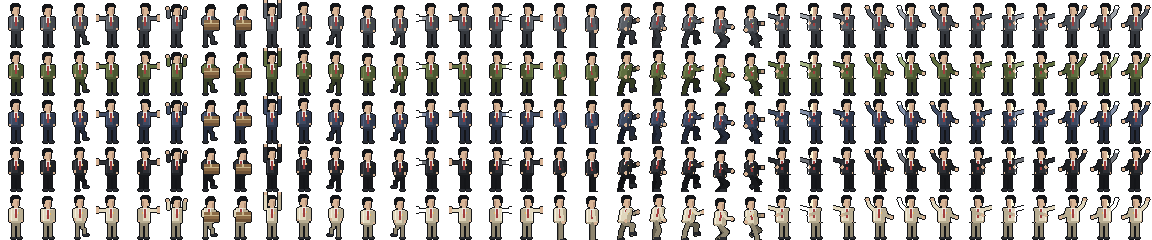
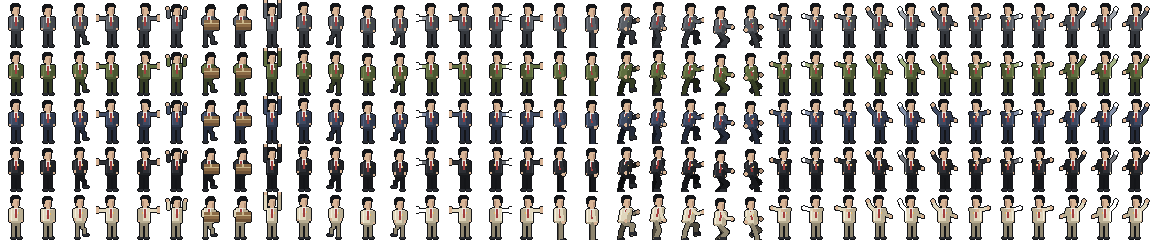
게임: 움직이는 로비 — 타자 치는 사원, 전화하는 사원, 커피 마시는 사원, 바닥을 오가는 사원 (staff.png) / 애니메이션 QA로 고친 프레임
- 막기 성공 번쩍임이 얼굴에 번지던 것, 두 손 밀기 팔이 프레임 끝에 잘리던 것 고침
- 먼 쪽 팔다리를 확실히 어둡게 해 달리기·걷기에서 다리를 바꿔 딛는 것이 보이게, 경쟁 사원 손이 프레임 끝에 잘리지 않게
- 내려 딛기 팔을 내리고, 전화하는 사원 손에 전화기
- QA: 자동 검사(빈 프레임·조각남·발 기준선·흔들림·몸을 가르는 외곽선) 0건, Designer QA 에이전트 육안 검토 통과

diff --git a/demo_api/assets/sprite_definition.js b/demo_api/assets/sprite_definition.js
@@ -1,1 +1,1 @@
-window.SPRITE_DEF = {"version": 1, "accepted_formats": {"image": ["png", "jpg", "jpeg"], "audio": ["mp3", "ogg"]}, "image_note": "이미지는 JPEG 또는 PNG 스프라이트 맵. 행(row)=변형, 열(column)=프레임. 프레임 (열, 행)의 픽셀 위치는 (열*frame_w, 행*frame_h)", "assets_dir": "assets", "logical_resolution": [320, 180], "pixel_scale": 2, "pixel_note": "에셋은 논리 해상도(320x180)의 2배(640x360 기준)로 그린다. 게임은 1/pixel_scale 크기로 그린다.", "sprites": {"player": {"file": "player.png", "frame_w": 32, "frame_h": 48, "variants": {"사원": 0, "대리": 1, "과장": 2, "간부": 3, "CEO": 4}, "animations": {"idle": {"frames": [17, 18], "fps": 2}, "step": {"frames": [2], "fps": 8}, "parry_left": {"frames": [3], "fps": 1}, "parry_right": {"frames": [4], "fps": 1}, "hit": {"frames": [5], "fps": 1}, "box_exit": {"frames": [6, 7], "fps": 3}, "proud": {"frames": [8], "fps": 1}, "climb_r": {"frames": [19, 20], "fps": 14}, "climb_l": {"frames": [21, 20], "fps": 14}, "down": {"frames": [22, 23], "fps": 8}, "parry_hit_left": {"frames": [13, 14, 3], "fps": 18}, "parry_hit_right": {"frames": [15, 16, 4], "fps": 18}, "parry_left2": {"frames": [24], "fps": 1}, "parry_hit_left2": {"frames": [25, 26, 24], "fps": 18}, "parry_left3": {"frames": [27], "fps": 1}, "parry_hit_left3": {"frames": [28, 29, 27], "fps": 18}, "parry_right2": {"frames": [30], "fps": 1}, "parry_hit_right2": {"frames": [31, 32, 30], "fps": 18}, "parry_right3": {"frames": [33], "fps": 1}, "parry_hit_right3": {"frames": [34, 35, 33], "fps": 18}}}, "rival": {"file": "rival.png", "frame_w": 32, "frame_h": 48, "variants": {"default": 0}, "animations": {"walk": {"frames": [16, 17, 18, 19], "fps": 10}, "attack": {"frames": [4, 5], "fps": 6}, "leave": {"frames": [6, 7, 8, 9], "fps": 8}, "climb": {"frames": [20, 21, 22, 23], "fps": 10}, "down": {"frames": [24, 25], "fps": 8}, "idle": {"frames": [26, 27], "fps": 2}}}, "projectiles": {"file": "projectiles.png", "frame_w": 24, "frame_h": 24, "variants": {"default": 0}, "animations": {"document": {"frames": [0, 1], "fps": 6}, "clipboard": {"frames": [2, 3], "fps": 6}, "phone": {"frames": [4, 5], "fps": 6}, "monitor": {"frames": [6, 7], "fps": 5}, "coffee": {"frames": [8, 9], "fps": 4}, "suitcase": {"frames": [10, 11], "fps": 4}, "suitcase_open": {"frames": [12], "fps": 1}}}, "warning": {"file": "warning.png", "frame_w": 16, "frame_h": 24, "variants": {"default": 0}, "animations": {"blink": {"frames": [0, 1], "fps": 6}}}, "stairs": {"file": "stairs.png", "frame_w": 88, "frame_h": 24, "variants": {"zone1": 0, "zone2": 1, "zone3": 2, "zone4": 3, "zone5": 4}, "animations": {"tile": {"frames": [0], "fps": 1}, "riser": {"frames": [1], "fps": 1}, "cracked": {"frames": [2], "fps": 1}, "wet": {"frames": [3], "fps": 1}}}, "hud_icons": {"file": "hud_icons.png", "frame_w": 24, "frame_h": 24, "variants": {"default": 0}, "animations": {"heart": {"frames": [0], "fps": 1}, "heart_empty": {"frames": [1], "fps": 1}, "calendar": {"frames": [2], "fps": 1}, "arrow_left": {"frames": [3], "fps": 1}, "arrow_right": {"frames": [4], "fps": 1}, "shield_q": {"frames": [5], "fps": 1}, "shield_e": {"frames": [6], "fps": 1}, "badge": {"frames": [7], "fps": 1}, "gear": {"frames": [8], "fps": 1}}}, "props": {"file": "props.png", "frame_w": 32, "frame_h": 48, "variants": {"default": 0}, "animations": {"cooler": {"frames": [0], "fps": 1}, "boxes": {"frames": [1], "fps": 1}, "plant": {"frames": [2], "fps": 1}, "cabinet": {"frames": [3], "fps": 1}}}, "commuter": {"file": "commuter.png", "frame_w": 20, "frame_h": 40, "variants": {"default": 0}, "animations": {"walk": {"frames": [0, 1, 2, 3], "fps": 6}}}, "sticky": {"file": "sticky.png", "frame_w": 24, "frame_h": 24, "variants": {"pink": 0, "blue": 1, "green": 2, "yellow": 3, "white": 4}, "animations": {"fly": {"frames": [0, 1], "fps": 6}}}}, "images": {"bg_zone1": {"file": "bg_zone1.png", "w": 640, "h": 360}, "bg_zone2": {"file": "bg_zone2.png", "w": 640, "h": 360}, "bg_zone3": {"file": "bg_zone3.png", "w": 640, "h": 360}, "bg_zone4": {"file": "bg_zone4.png", "w": 640, "h": 360}, "bg_zone5": {"file": "bg_zone5.png", "w": 640, "h": 360}, "title_bg": {"file": "title_bg.png", "w": 640, "h": 360}, "logo": {"file": "logo.png", "w": 299, "h": 79}, "bg_lobby": {"file": "bg_lobby.png", "w": 640, "h": 360}, "bg_result": {"file": "bg_result.png", "w": 640, "h": 360}, "bg_practice": {"file": "bg_practice.png", "w": 640, "h": 360}}, "sounds": {"bgm_loop": {"loop": true, "files": {"mp3": "bgm_loop.mp3", "ogg": "bgm_loop.ogg"}}, "bgm_loop_tense": {"loop": true, "files": {"mp3": "bgm_loop_tense.mp3", "ogg": "bgm_loop_tense.ogg"}}, "amb_office": {"loop": true, "files": {"mp3": "amb_office.mp3", "ogg": "amb_office.ogg"}}, "sfx_step": {"loop": false, "files": {"mp3": "sfx_step.mp3", "ogg": "sfx_step.ogg"}}, "sfx_parry": {"loop": false, "files": {"mp3": "sfx_parry.mp3", "ogg": "sfx_parry.ogg"}}, "sfx_hit": {"loop": false, "files": {"mp3": "sfx_hit.mp3", "ogg": "sfx_hit.ogg"}}, "sfx_warning": {"loop": false, "files": {"mp3": "sfx_warning.mp3", "ogg": "sfx_warning.ogg"}}, "sfx_promote": {"loop": false, "files": {"mp3": "sfx_promote.mp3", "ogg": "sfx_promote.ogg"}}, "sfx_gameover": {"loop": false, "files": {"mp3": "sfx_gameover.mp3", "ogg": "sfx_gameover.ogg"}}, "sfx_click": {"loop": false, "files": {"mp3": "sfx_click.mp3", "ogg": "sfx_click.ogg"}}, "sfx_phone_ring": {"loop": false, "files": {"mp3": "sfx_phone_ring.mp3", "ogg": "sfx_phone_ring.ogg"}}, "sfx_cue_clipboard": {"loop": false, "files": {"mp3": "sfx_cue_clipboard.mp3", "ogg": "sfx_cue_clipboard.ogg"}}, "sfx_cue_rival": {"loop": false, "files": {"mp3": "sfx_cue_rival.mp3", "ogg": "sfx_cue_rival.ogg"}}, "sfx_cue_paper": {"loop": false, "files": {"mp3": "sfx_cue_paper.mp3", "ogg": "sfx_cue_paper.ogg"}}, "sfx_monitor_shatter": {"loop": false, "files": {"mp3": "sfx_monitor_shatter.mp3", "ogg": "sfx_monitor_shatter.ogg"}}, "sfx_light_flicker": {"loop": false, "files": {"mp3": "sfx_light_flicker.mp3", "ogg": "sfx_light_flicker.ogg"}}, "sfx_cue_coffee": {"loop": false, "files": {"mp3": "sfx_cue_coffee.mp3", "ogg": "sfx_cue_coffee.ogg"}}, "sfx_stair_crack": {"loop": false, "files": {"mp3": "sfx_stair_crack.mp3", "ogg": "sfx_stair_crack.ogg"}}, "sfx_camera_flash": {"loop": false, "files": {"mp3": "sfx_camera_flash.mp3", "ogg": "sfx_camera_flash.ogg"}}, "sfx_cue_suitcase": {"loop": false, "files": {"mp3": "sfx_cue_suitcase.mp3", "ogg": "sfx_cue_suitcase.ogg"}}, "bgm_stage1": {"loop": true, "files": {"mp3": "bgm_stage1.mp3", "ogg": "bgm_stage1.ogg"}}, "bgm_stage2": {"loop": true, "files": {"mp3": "bgm_stage2.mp3", "ogg": "bgm_stage2.ogg"}}, "bgm_stage3": {"loop": true, "files": {"mp3": "bgm_stage3.mp3", "ogg": "bgm_stage3.ogg"}}, "bgm_stage4": {"loop": true, "files": {"mp3": "bgm_stage4.mp3", "ogg": "bgm_stage4.ogg"}}, "bgm_stage5": {"loop": true, "files": {"mp3": "bgm_stage5.mp3", "ogg": "bgm_stage5.ogg"}}, "sfx_electric": {"loop": false, "files": {"mp3": "sfx_electric.mp3", "ogg": "sfx_electric.ogg"}}, "sfx_cue_stapler": {"files": {"mp3": "sfx_cue_stapler.mp3", "ogg": "sfx_cue_stapler.ogg"}}, "sfx_cue_sticky": {"files": {"mp3": "sfx_cue_sticky.mp3", "ogg": "sfx_cue_sticky.ogg"}}, "sfx_cue_airplane": {"files": {"mp3": "sfx_cue_airplane.mp3", "ogg": "sfx_cue_airplane.ogg"}}, "sfx_gaze_warn": {"files": {"mp3": "sfx_gaze_warn.mp3", "ogg": "sfx_gaze_warn.ogg"}}, "sfx_gaze_laser": {"files": {"mp3": "sfx_gaze_laser.mp3", "ogg": "sfx_gaze_laser.ogg"}}, "sfx_vanish": {"files": {"mp3": "sfx_vanish.mp3", "ogg": "sfx_vanish.ogg"}}, "sfx_escalator": {"files": {"mp3": "sfx_escalator.mp3", "ogg": "sfx_escalator.ogg"}}, "sfx_parry_perfect": {"files": {"mp3": "sfx_parry_perfect.mp3", "ogg": "sfx_parry_perfect.ogg"}}, "sfx_cue_chair": {"files": {"mp3": "sfx_cue_chair.mp3", "ogg": "sfx_cue_chair.ogg"}}, "sfx_chair_hop": {"files": {"mp3": "sfx_chair_hop.mp3", "ogg": "sfx_chair_hop.ogg"}}, "sfx_cue_envelope": {"files": {"mp3": "sfx_cue_envelope.mp3", "ogg": "sfx_cue_envelope.ogg"}}}};
+window.SPRITE_DEF = {"version": 1, "accepted_formats": {"image": ["png", "jpg", "jpeg"], "audio": ["mp3", "ogg"]}, "image_note": "이미지는 JPEG 또는 PNG 스프라이트 맵. 행(row)=변형, 열(column)=프레임. 프레임 (열, 행)의 픽셀 위치는 (열*frame_w, 행*frame_h)", "assets_dir": "assets", "logical_resolution": [320, 180], "pixel_scale": 2, "pixel_note": "에셋은 논리 해상도(320x180)의 2배(640x360 기준)로 그린다. 게임은 1/pixel_scale 크기로 그린다.", "sprites": {"player": {"file": "player.png", "frame_w": 32, "frame_h": 48, "variants": {"사원": 0, "대리": 1, "과장": 2, "간부": 3, "CEO": 4}, "animations": {"idle": {"frames": [17, 18], "fps": 2}, "step": {"frames": [2], "fps": 8}, "parry_left": {"frames": [3], "fps": 1}, "parry_right": {"frames": [4], "fps": 1}, "hit": {"frames": [5], "fps": 1}, "box_exit": {"frames": [6, 7], "fps": 3}, "proud": {"frames": [8], "fps": 1}, "climb_r": {"frames": [19, 20], "fps": 14}, "climb_l": {"frames": [21, 20], "fps": 14}, "down": {"frames": [22, 23], "fps": 8}, "parry_hit_left": {"frames": [13, 14, 3], "fps": 18}, "parry_hit_right": {"frames": [15, 16, 4], "fps": 18}, "parry_left2": {"frames": [24], "fps": 1}, "parry_hit_left2": {"frames": [25, 26, 24], "fps": 18}, "parry_left3": {"frames": [27], "fps": 1}, "parry_hit_left3": {"frames": [28, 29, 27], "fps": 18}, "parry_right2": {"frames": [30], "fps": 1}, "parry_hit_right2": {"frames": [31, 32, 30], "fps": 18}, "parry_right3": {"frames": [33], "fps": 1}, "parry_hit_right3": {"frames": [34, 35, 33], "fps": 18}}}, "rival": {"file": "rival.png", "frame_w": 32, "frame_h": 48, "variants": {"default": 0}, "animations": {"walk": {"frames": [16, 17, 18, 19], "fps": 10}, "attack": {"frames": [4, 5], "fps": 6}, "leave": {"frames": [6, 7, 8, 9], "fps": 8}, "climb": {"frames": [20, 21, 22, 23], "fps": 10}, "down": {"frames": [24, 25], "fps": 8}, "idle": {"frames": [26, 27], "fps": 2}}}, "projectiles": {"file": "projectiles.png", "frame_w": 24, "frame_h": 24, "variants": {"default": 0}, "animations": {"document": {"frames": [0, 1], "fps": 6}, "clipboard": {"frames": [2, 3], "fps": 6}, "phone": {"frames": [4, 5], "fps": 6}, "monitor": {"frames": [6, 7], "fps": 5}, "coffee": {"frames": [8, 9], "fps": 4}, "suitcase": {"frames": [10, 11], "fps": 4}, "suitcase_open": {"frames": [12], "fps": 1}}}, "warning": {"file": "warning.png", "frame_w": 16, "frame_h": 24, "variants": {"default": 0}, "animations": {"blink": {"frames": [0, 1], "fps": 6}}}, "stairs": {"file": "stairs.png", "frame_w": 88, "frame_h": 24, "variants": {"zone1": 0, "zone2": 1, "zone3": 2, "zone4": 3, "zone5": 4}, "animations": {"tile": {"frames": [0], "fps": 1}, "riser": {"frames": [1], "fps": 1}, "cracked": {"frames": [2], "fps": 1}, "wet": {"frames": [3], "fps": 1}}}, "hud_icons": {"file": "hud_icons.png", "frame_w": 24, "frame_h": 24, "variants": {"default": 0}, "animations": {"heart": {"frames": [0], "fps": 1}, "heart_empty": {"frames": [1], "fps": 1}, "calendar": {"frames": [2], "fps": 1}, "arrow_left": {"frames": [3], "fps": 1}, "arrow_right": {"frames": [4], "fps": 1}, "shield_q": {"frames": [5], "fps": 1}, "shield_e": {"frames": [6], "fps": 1}, "badge": {"frames": [7], "fps": 1}, "gear": {"frames": [8], "fps": 1}}}, "props": {"file": "props.png", "frame_w": 32, "frame_h": 48, "variants": {"default": 0}, "animations": {"cooler": {"frames": [0], "fps": 1}, "boxes": {"frames": [1], "fps": 1}, "plant": {"frames": [2], "fps": 1}, "cabinet": {"frames": [3], "fps": 1}}}, "commuter": {"file": "commuter.png", "frame_w": 20, "frame_h": 40, "variants": {"default": 0}, "animations": {"walk": {"frames": [0, 1, 2, 3], "fps": 6}}}, "sticky": {"file": "sticky.png", "frame_w": 24, "frame_h": 24, "variants": {"pink": 0, "blue": 1, "green": 2, "yellow": 3, "white": 4}, "animations": {"fly": {"frames": [0, 1], "fps": 6}}}, "staff": {"file": "staff.png", "frame_w": 32, "frame_h": 48, "variants": {"a": 0, "b": 1, "c": 2, "d": 3}, "animations": {"walk": {"frames": [0, 1, 2, 3], "fps": 6}, "idle": {"frames": [4, 5], "fps": 2}, "coffee": {"frames": [6, 7], "fps": 1}, "type": {"frames": [8, 9], "fps": 6}, "phone": {"frames": [10, 11], "fps": 2}}}}, "images": {"bg_zone1": {"file": "bg_zone1.png", "w": 640, "h": 360}, "bg_zone2": {"file": "bg_zone2.png", "w": 640, "h": 360}, "bg_zone3": {"file": "bg_zone3.png", "w": 640, "h": 360}, "bg_zone4": {"file": "bg_zone4.png", "w": 640, "h": 360}, "bg_zone5": {"file": "bg_zone5.png", "w": 640, "h": 360}, "title_bg": {"file": "title_bg.png", "w": 640, "h": 360}, "logo": {"file": "logo.png", "w": 299, "h": 79}, "bg_lobby": {"file": "bg_lobby.png", "w": 640, "h": 360}, "bg_result": {"file": "bg_result.png", "w": 640, "h": 360}, "bg_practice": {"file": "bg_practice.png", "w": 640, "h": 360}}, "sounds": {"bgm_loop": {"loop": true, "files": {"mp3": "bgm_loop.mp3", "ogg": "bgm_loop.ogg"}}, "bgm_loop_tense": {"loop": true, "files": {"mp3": "bgm_loop_tense.mp3", "ogg": "bgm_loop_tense.ogg"}}, "amb_office": {"loop": true, "files": {"mp3": "amb_office.mp3", "ogg": "amb_office.ogg"}}, "sfx_step": {"loop": false, "files": {"mp3": "sfx_step.mp3", "ogg": "sfx_step.ogg"}}, "sfx_parry": {"loop": false, "files": {"mp3": "sfx_parry.mp3", "ogg": "sfx_parry.ogg"}}, "sfx_hit": {"loop": false, "files": {"mp3": "sfx_hit.mp3", "ogg": "sfx_hit.ogg"}}, "sfx_warning": {"loop": false, "files": {"mp3": "sfx_warning.mp3", "ogg": "sfx_warning.ogg"}}, "sfx_promote": {"loop": false, "files": {"mp3": "sfx_promote.mp3", "ogg": "sfx_promote.ogg"}}, "sfx_gameover": {"loop": false, "files": {"mp3": "sfx_gameover.mp3", "ogg": "sfx_gameover.ogg"}}, "sfx_click": {"loop": false, "files": {"mp3": "sfx_click.mp3", "ogg": "sfx_click.ogg"}}, "sfx_phone_ring": {"loop": false, "files": {"mp3": "sfx_phone_ring.mp3", "ogg": "sfx_phone_ring.ogg"}}, "sfx_cue_clipboard": {"loop": false, "files": {"mp3": "sfx_cue_clipboard.mp3", "ogg": "sfx_cue_clipboard.ogg"}}, "sfx_cue_rival": {"loop": false, "files": {"mp3": "sfx_cue_rival.mp3", "ogg": "sfx_cue_rival.ogg"}}, "sfx_cue_paper": {"loop": false, "files": {"mp3": "sfx_cue_paper.mp3", "ogg": "sfx_cue_paper.ogg"}}, "sfx_monitor_shatter": {"loop": false, "files": {"mp3": "sfx_monitor_shatter.mp3", "ogg": "sfx_monitor_shatter.ogg"}}, "sfx_light_flicker": {"loop": false, "files": {"mp3": "sfx_light_flicker.mp3", "ogg": "sfx_light_flicker.ogg"}}, "sfx_cue_coffee": {"loop": false, "files": {"mp3": "sfx_cue_coffee.mp3", "ogg": "sfx_cue_coffee.ogg"}}, "sfx_stair_crack": {"loop": false, "files": {"mp3": "sfx_stair_crack.mp3", "ogg": "sfx_stair_crack.ogg"}}, "sfx_camera_flash": {"loop": false, "files": {"mp3": "sfx_camera_flash.mp3", "ogg": "sfx_camera_flash.ogg"}}, "sfx_cue_suitcase": {"loop": false, "files": {"mp3": "sfx_cue_suitcase.mp3", "ogg": "sfx_cue_suitcase.ogg"}}, "bgm_stage1": {"loop": true, "files": {"mp3": "bgm_stage1.mp3", "ogg": "bgm_stage1.ogg"}}, "bgm_stage2": {"loop": true, "files": {"mp3": "bgm_stage2.mp3", "ogg": "bgm_stage2.ogg"}}, "bgm_stage3": {"loop": true, "files": {"mp3": "bgm_stage3.mp3", "ogg": "bgm_stage3.ogg"}}, "bgm_stage4": {"loop": true, "files": {"mp3": "bgm_stage4.mp3", "ogg": "bgm_stage4.ogg"}}, "bgm_stage5": {"loop": true, "files": {"mp3": "bgm_stage5.mp3", "ogg": "bgm_stage5.ogg"}}, "sfx_electric": {"loop": false, "files": {"mp3": "sfx_electric.mp3", "ogg": "sfx_electric.ogg"}}, "sfx_cue_stapler": {"files": {"mp3": "sfx_cue_stapler.mp3", "ogg": "sfx_cue_stapler.ogg"}}, "sfx_cue_sticky": {"files": {"mp3": "sfx_cue_sticky.mp3", "ogg": "sfx_cue_sticky.ogg"}}, "sfx_cue_airplane": {"files": {"mp3": "sfx_cue_airplane.mp3", "ogg": "sfx_cue_airplane.ogg"}}, "sfx_gaze_warn": {"files": {"mp3": "sfx_gaze_warn.mp3", "ogg": "sfx_gaze_warn.ogg"}}, "sfx_gaze_laser": {"files": {"mp3": "sfx_gaze_laser.mp3", "ogg": "sfx_gaze_laser.ogg"}}, "sfx_vanish": {"files": {"mp3": "sfx_vanish.mp3", "ogg": "sfx_vanish.ogg"}}, "sfx_escalator": {"files": {"mp3": "sfx_escalator.mp3", "ogg": "sfx_escalator.ogg"}}, "sfx_parry_perfect": {"files": {"mp3": "sfx_parry_perfect.mp3", "ogg": "sfx_parry_perfect.ogg"}}, "sfx_cue_chair": {"files": {"mp3": "sfx_cue_chair.mp3", "ogg": "sfx_cue_chair.ogg"}}, "sfx_chair_hop": {"files": {"mp3": "sfx_chair_hop.mp3", "ogg": "sfx_chair_hop.ogg"}}, "sfx_cue_envelope": {"files": {"mp3": "sfx_cue_envelope.mp3", "ogg": "sfx_cue_envelope.ogg"}}}};

diff --git a/demo_api/game.js b/demo_api/game.js
@@ -220,7 +220,7 @@ const DEF = window.SPRITE_DEF || null;
 if (!DEF) assetErrors.push('SPRITE_DEF:missing');
 const D = DEF || { sprites: {}, images: {}, sounds: {} };
 const ASSET_DIR = (D.assets_dir || 'assets').replace(/\/$/, '');
-const SPRITE_IDS = ['player', 'rival', 'projectiles', 'warning', 'stairs', 'hud_icons', 'props', 'commuter', 'sticky'];
+const SPRITE_IDS = ['player', 'rival', 'projectiles', 'warning', 'stairs', 'hud_icons', 'props', 'commuter', 'sticky', 'staff'];
 const IMAGE_IDS = ['bg_zone1', 'bg_zone2', 'bg_zone3', 'bg_zone4', 'bg_zone5', 'title_bg', 'logo', 'bg_lobby', 'bg_result', 'bg_practice'];
 const SOUND_IDS = ['bgm_loop', 'bgm_loop_tense', 'amb_office', 'sfx_step', 'sfx_parry', 'sfx_parry_perfect', 'sfx_hit', 'sfx_warning', 'sfx_promote', 'sfx_gameover', 'sfx_click', 'sfx_phone_ring', 'sfx_cue_clipboard', 'sfx_cue_rival', 'sfx_cue_paper', 'sfx_monitor_shatter', 'sfx_light_flicker', 'sfx_cue_coffee', 'sfx_stair_crack', 'sfx_camera_flash', 'sfx_cue_suitcase', 'bgm_stage1', 'bgm_stage2', 'bgm_stage3', 'bgm_stage4', 'bgm_stage5', 'sfx_electric',
                    'sfx_cue_stapler', 'sfx_cue_sticky', 'sfx_cue_airplane', 'sfx_gaze_warn', 'sfx_gaze_laser', 'sfx_vanish', 'sfx_escalator',
@@ -1212,9 +1212,26 @@ function drawIdCard(x, y, rIdx) {
     rect(x + 4, yy + 8, 66, 1, '#9AA0A8', 0.6);
   });
 }
+// 로비 사원: 왼쪽 끝 ↔ 오른쪽 끝을 걷고, 끝에서 pause초 머문다 (커피를 마시다 서 있기)
+function lobbyWalker(t, x0, x1, speed, pause) {
+  const walk = (x1 - x0) / speed, P = 2 * (walk + pause), ph = ((t % P) + P) % P;
+  if (ph < walk) return { x: x0 + speed * ph, dir: 1, anim: 'walk', at: ph };
+  if (ph < walk + pause) return { x: x1, dir: -1, anim: ph - walk < pause * 0.6 ? 'coffee' : 'idle', at: ph - walk };
+  if (ph < 2 * walk + pause) { const q = ph - walk - pause; return { x: x1 - speed * q, dir: -1, anim: 'walk', at: q }; }
+  return { x: x0, dir: 1, anim: 'idle', at: ph - 2 * walk - pause };
+}
+function drawLobbyStaff() {
+  const o = { fw: 16, fh: 24, nofb: true };
+  drawSprite('staff', 'b', 'type', time, 172, 129, o);                                       // 의자에 앉아 타자 (위몸만)
+  drawSprite('staff', 'c', 'phone', time, 229, 132, o);                                      // 서류함 옆에서 전화
+  drawSprite('staff', 'd', time % 6 < 3.5 ? 'coffee' : 'idle', time, 113, 132, Object.assign({ flip: false }, o));   // 화분 옆에서 커피
+  const w = lobbyWalker(time + 2, 96, 236, 14, 3);                                           // 바닥을 오가는 사원
+  drawSprite('staff', 'a', w.anim, w.at, Math.round(w.x), 148, Object.assign({ flip: w.dir < 0 }, o));
+}
 function drawLobby() {
   // 컨셉 05-2: 형광등 천장의 파티션 사무실(배경 bg_lobby) 위에 층 표시, D-30, 사원증, 화이트보드 기록, 업무 시작
   if (!drawImg('bg_lobby', 0, 0, W, H, null)) { drawImg('bg_zone1', 0, 0, W, H, PAL.bg); rect(0, 0, W, H, PAL.bg, 0.5); }
+  drawLobbyStaff();                                                                         // 사무실 사원들 (움직이는 로비)
   const rIdx = CONFIG.promoteFloors.filter(function (f) { return save.floor >= f; }).length;
   rect(124, 3, 72, 13, PAL.bg, 0.92); frameRect(124, 3, 72, 13, '#9AA0A8');                 // 1 층·직급
   txt('1F', 148, 9.5, { align: 'center', base: 'middle', size: 8, bold: true });
